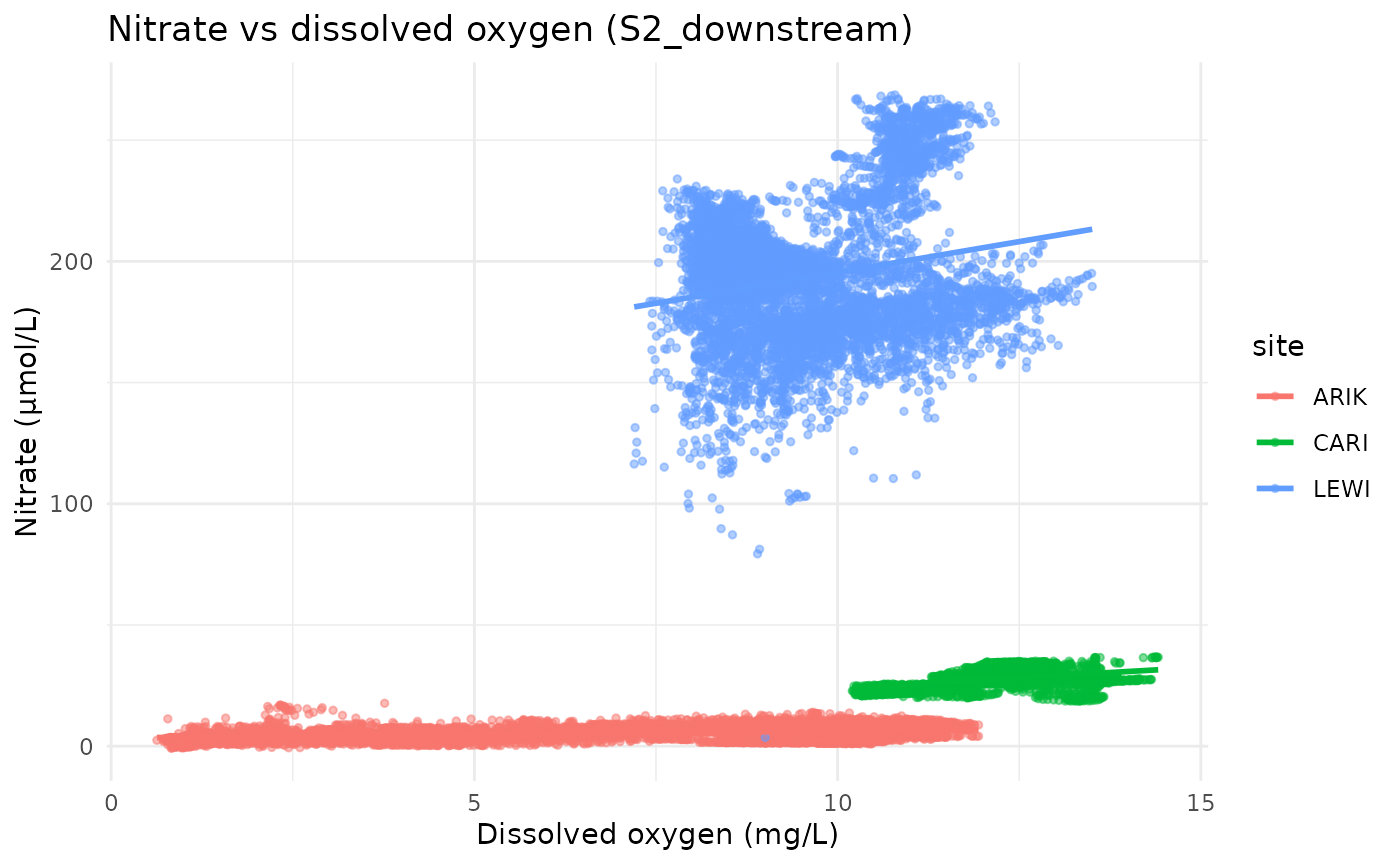
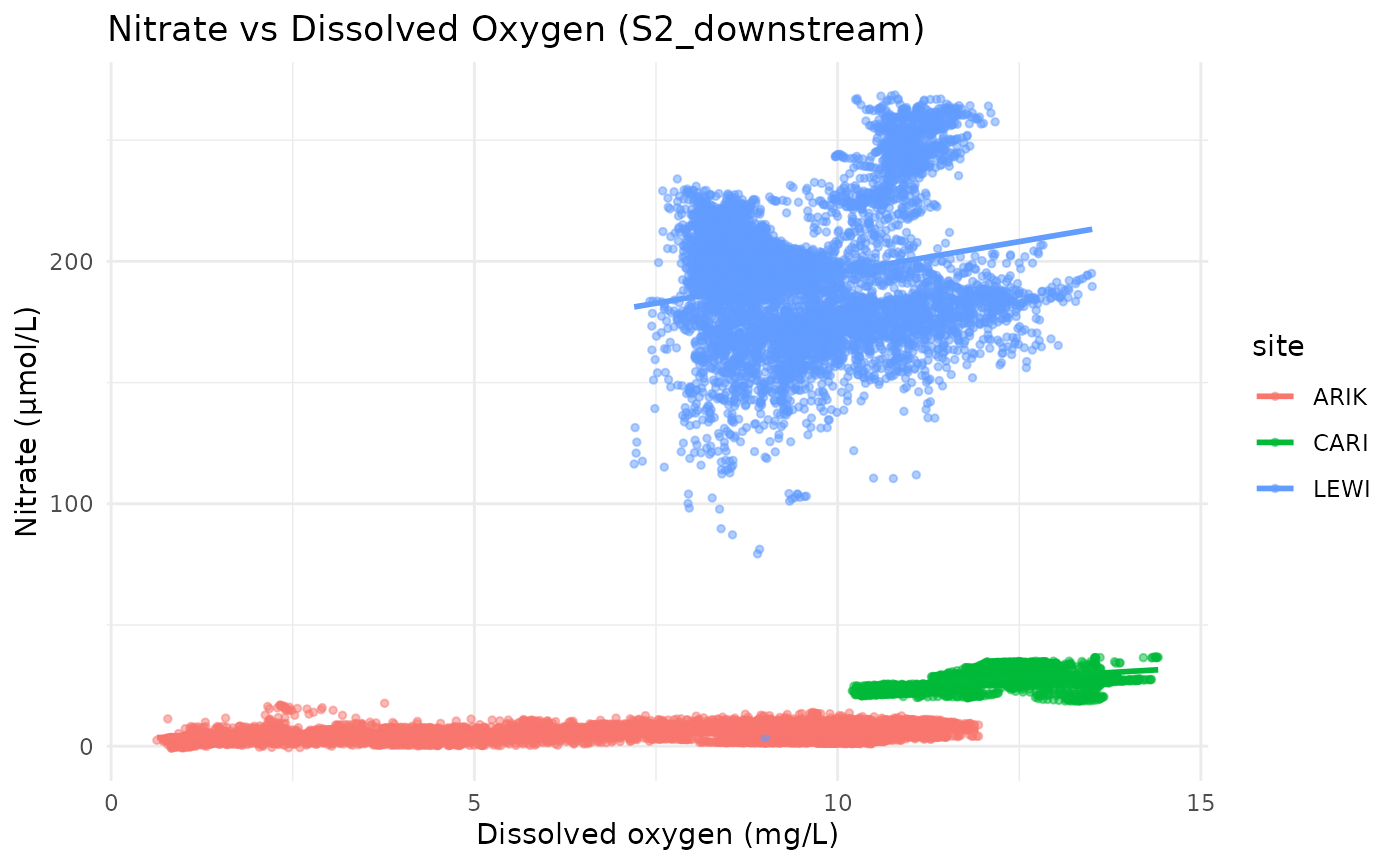
Deploying to gh-pages from @ ETC5523-2025/assignment-4-packages-and-shiny-apps-NutchanokS@b1dde2523cbc50e1ca50ef4f403d88e5b805554c 🚀

Changed region(s): [[0.215, 0.0, 0.6757, 0.0624]]

diff --git a/articles/analysis.html b/articles/analysis.html
@@ -5,12 +5,12 @@
 <meta charset="utf-8">
 <meta http-equiv="X-UA-Compatible" content="IE=edge">
 <meta name="viewport" content="width=device-width, initial-scale=1, shrink-to-fit=no">
-<title>analysis • assign4nspack</title>
+<title>Analysis and Interactive Exploration of NEON Freshwater Data • assign4nspack</title>
 <script src="../deps/jquery-3.6.0/jquery-3.6.0.min.js"></script><meta name="viewport" content="width=device-width, initial-scale=1, shrink-to-fit=no">
 <link href="../deps/bootstrap-5.3.1/bootstrap.min.css" rel="stylesheet">
 <script src="../deps/bootstrap-5.3.1/bootstrap.bundle.min.js"></script><link href="../deps/font-awesome-6.5.2/css/all.min.css" rel="stylesheet">
 <link href="../deps/font-awesome-6.5.2/css/v4-shims.min.css" rel="stylesheet">
-<script src="../deps/headroom-0.11.0/headroom.min.js"></script><script src="../deps/headroom-0.11.0/jQuery.headroom.min.js"></script><script src="../deps/bootstrap-toc-1.0.1/bootstrap-toc.min.js"></script><script src="../deps/clipboard.js-2.0.11/clipboard.min.js"></script><script src="../deps/search-1.0.0/autocomplete.jquery.min.js"></script><script src="../deps/search-1.0.0/fuse.min.js"></script><script src="../deps/search-1.0.0/mark.min.js"></script><!-- pkgdown --><script src="../pkgdown.js"></script><meta property="og:title" content="analysis">
+<script src="../deps/headroom-0.11.0/headroom.min.js"></script><script src="../deps/headroom-0.11.0/jQuery.headroom.min.js"></script><script src="../deps/bootstrap-toc-1.0.1/bootstrap-toc.min.js"></script><script src="../deps/clipboard.js-2.0.11/clipboard.min.js"></script><script src="../deps/search-1.0.0/autocomplete.jquery.min.js"></script><script src="../deps/search-1.0.0/fuse.min.js"></script><script src="../deps/search-1.0.0/mark.min.js"></script><!-- pkgdown --><script src="../pkgdown.js"></script><meta property="og:title" content="Analysis and Interactive Exploration of NEON Freshwater Data">
 </head>
 <body>
     <a href="#main" class="visually-hidden-focusable">Skip to contents</a>
@@ -33,7 +33,7 @@
 <li class="active nav-item dropdown">
   <button class="nav-link dropdown-toggle" type="button" id="dropdown-articles" data-bs-toggle="dropdown" aria-expanded="false" aria-haspopup="true">Articles</button>
   <ul class="dropdown-menu" aria-labelledby="dropdown-articles">
-<li><a class="dropdown-item" href="../articles/analysis.html">analysis</a></li>
+<li><a class="dropdown-item" href="../articles/analysis.html">Analysis and Interactive Exploration of NEON Freshwater Data</a></li>
   </ul>
 </li>
       </ul>
@@ -55,7 +55,7 @@
 <div class="row">
   <main id="main" class="col-md-9"><div class="page-header">
 
-      <h1>analysis</h1>
+      <h1>Analysis and Interactive Exploration of NEON Freshwater Data</h1>
             
       
       <small class="dont-index">Source: <a href="https://github.com/ETC5523-2025/assignment-4-packages-and-shiny-apps-NutchanokS/blob/main/vignettes/analysis.Rmd" class="external-link"><code>vignettes/analysis.Rmd</code></a></small>
@@ -67,23 +67,25 @@
 <div class="section level2">
 <h2 id="overview">Overview<a class="anchor" aria-label="anchor" href="#overview"></a>
 </h2>
-<p>This vignette documents how the <strong>assign4nspack</strong>
-datasets were curated from NEON sensor products and shows quick analyses
-that mirror the questions explored in the Shiny app.</p>
+<p>This vignette demonstrates how <strong>assign4nspack</strong> curates
+and visualises high-frequency freshwater sensor data from the
+<strong>National Ecological Observatory Network (NEON)</strong>. It
+summarises dataset preparation, coverage checks, and basic relationships
+that the package’s interactive Shiny app explores in more detail.</p>
 <p><strong>Goals</strong></p>
 <ul>
-<li>Describe the data sources and preparation (time window, QC, hourly
-aggregation).</li>
-<li>Provide light EDA to understand coverage by site/sensor.</li>
-<li>Show a compact example of the nitrate–water quality
-relationship.</li>
-<li>Point readers to the interactive app for deeper exploration.</li>
+<li>Describe data sources, time window, and quality-control (QC)
+procedures.</li>
+<li>Summarise site-specific coverage by sensor.</li>
+<li>Illustrate an example nitrate–water-quality relationship.</li>
+<li>Explain the Shiny dashboard tabs for interactive analysis.</li>
 </ul>
 </div>
 <div class="section level2">
 <h2 id="data-sources">Data sources<a class="anchor" aria-label="anchor" href="#data-sources"></a>
 </h2>
-<p>We derive hourly datasets from publicly available NEON products:</p>
+<p>Hourly datasets were derived from publicly available NEON
+products:</p>
 <ul>
 <li>
 <strong>DP1.20288.001</strong> — <em>Aquatic Instrumentation: Water
@@ -95,26 +97,73 @@ variables: conductivity (<code>cond_uScm</code>), dissolved oxygen
 (NSW)</em><br>
 variable: nitrate (<code>nitrate_umolL</code>)</li>
 </ul>
-<p>Data are used here for educational purposes.</p>
+<p>These data are used solely for educational purposes in ETC5523 –
+Communicating with Data.</p>
 </div>
 <div class="section level2">
-<h2 id="timeframe-qc-and-joins-summary">Timeframe, QC, and joins (summary)<a class="anchor" aria-label="anchor" href="#timeframe-qc-and-joins-summary"></a>
+<h2 id="neon-stream-sites-in-this-package">NEON stream sites in this package<a class="anchor" aria-label="anchor" href="#neon-stream-sites-in-this-package"></a>
+</h2>
+<table class="table">
+<colgroup>
+<col width="24%">
+<col width="24%">
+<col width="22%">
+<col width="28%">
+</colgroup>
+<thead><tr class="header">
+<th>Site code</th>
+<th>Full name</th>
+<th>Location (USA)</th>
+<th>Description</th>
+</tr></thead>
+<tbody>
+<tr class="odd">
+<td><strong>ARIK</strong></td>
+<td>Arikaree River</td>
+<td>Colorado</td>
+<td>Semi-arid prairie and cropland catchment with strong diel
+conductivity cycles.</td>
+</tr>
+<tr class="even">
+<td><strong>CARI</strong></td>
+<td>Caribou Creek</td>
+<td>Alaska</td>
+<td>Sub-arctic, minimally disturbed watershed with low conductivity and
+nitrate.</td>
+</tr>
+<tr class="odd">
+<td><strong>LEWI</strong></td>
+<td>Lewis Run</td>
+<td>Pennsylvania</td>
+<td>Temperate urban–agricultural catchment showing high nitrate and
+conductivity from runoff.</td>
+</tr>
+</tbody>
+</table>
+</div>
+<div class="section level2">
+<h2 id="data-processing-summary">Data processing summary<a class="anchor" aria-label="anchor" href="#data-processing-summary"></a>
 </h2>
 <ul>
-<li>Time window: <strong>2018-01-01 to 2019-12-31</strong>.</li>
-<li>Quality filtering: keep measurements with NEON quality flag
-<strong>QF == 0</strong> when available.</li>
-<li>Aggregation: raw 15-min values → <strong>hourly means</strong> using
-<code>lubridate::floor_date</code>.</li>
-<li>Join keys: <code>site</code>, <code>sensor</code>
+<li>
+<strong>Period:</strong> 1 January 2018 – 31 December 2019</li>
+<li>
+<strong>QC:</strong> retain only records with NEON quality flag
+<code>QF == 0</code>
+</li>
+<li>
+<strong>Aggregation:</strong> 15-minute observations averaged to
+hourly means (<code>lubridate::floor_date</code>)</li>
+<li>
+<strong>Join keys:</strong> <code>site</code>, <code>sensor</code>
 (<code>S1_upstream</code>, <code>S2_downstream</code>),
-<code>date_time</code> (UTC).</li>
+<code>date_time</code> (UTC)</li>
 </ul>
-<p>The full preparation steps are implemented in the package’s
-<code>data-raw/</code> scripts.</p>
+<p>Data preparation scripts are available in the package’s
+<code>data-raw/</code> folder.</p>
 </div>
 <div class="section level2">
-<h2 id="quick-data-check">Quick data check<a class="anchor" aria-label="anchor" href="#quick-data-check"></a>
+<h2 id="quick-structure-check">Quick structure check<a class="anchor" aria-label="anchor" href="#quick-structure-check"></a>
 </h2>
 <div class="sourceCode" id="cb1"><pre class="downlit sourceCode r">
 <code class="sourceCode R"><span><span class="kw"><a href="https://rdrr.io/r/base/library.html" class="external-link">library</a></span><span class="op">(</span><span class="va"><a href="https://dplyr.tidyverse.org" class="external-link">dplyr</a></span><span class="op">)</span></span>
@@ -167,7 +216,7 @@ variable: nitrate (<code>nitrate_umolL</code>)</li>
 <p><img src="analysis_files/figure-html/coverage%20plot-1.png" width="700"></p>
 </div>
 <div class="section level2">
-<h2 id="time-range-check">Time range check<a class="anchor" aria-label="anchor" href="#time-range-check"></a>
+<h2 id="time-range-per-sitesensor">Time range per site/sensor<a class="anchor" aria-label="anchor" href="#time-range-per-sitesensor"></a>
 </h2>
 <div class="sourceCode" id="cb6"><pre class="downlit sourceCode r">
 <code class="sourceCode R"><span><span class="va">wq_nitrate</span> <span class="op">|&gt;</span></span>
@@ -186,11 +235,14 @@ variable: nitrate (<code>nitrate_umolL</code>)</li>
 <span><span class="co">## <span style="color: #BCBCBC;">4</span> CARI  S2_downstream 2018-06-12 <span style="color: #949494;">19:00:00</span> 2019-09-24 <span style="color: #949494;">23:00:00</span></span></span>
 <span><span class="co">## <span style="color: #BCBCBC;">5</span> LEWI  S1_upstream   2018-01-03 <span style="color: #949494;">21:00:00</span> 2019-12-31 <span style="color: #949494;">23:00:00</span></span></span>
 <span><span class="co">## <span style="color: #BCBCBC;">6</span> LEWI  S2_downstream 2018-01-01 <span style="color: #949494;">00:00:00</span> 2019-12-31 <span style="color: #949494;">23:00:00</span></span></span></code></pre>
-<p><strong>Nitrate–water quality relationship</strong></p>
-<p>We illustrate one relationship that the app explores interactively:
-<strong>nitrate vs dissolved oxygen.</strong></p>
-<p>Downstream sensors (<code>S2_downstream</code>) usually have the
-richest nitrate coverage.</p>
+</div>
+<div class="section level2">
+<h2 id="example-relationship-nitrate-vs--dissolved-oxygen">Example relationship: Nitrate vs. Dissolved Oxygen**<a class="anchor" aria-label="anchor" href="#example-relationship-nitrate-vs--dissolved-oxygen"></a>
+</h2>
+<p>Downstream sensors (<code>S2_downstream</code>) provide the richest
+nitrate coverage.</p>
+<p>The plot below shows a site-coloured scatter of nitrate against
+dissolved oxygen with linear fits.</p>
 <div class="sourceCode" id="cb8"><pre class="downlit sourceCode r">
 <code class="sourceCode R"><span><span class="va">df_rel</span> <span class="op">&lt;-</span> <span class="va">wq_nitrate</span> <span class="op">|&gt;</span></span>
 <span><span class="fu"><a href="https://dplyr.tidyverse.org/reference/filter.html" class="external-link">filter</a></span><span class="op">(</span><span class="va">sensor</span> <span class="op">==</span> <span class="st">"S2_downstream"</span><span class="op">)</span> <span class="op">|&gt;</span></span>
@@ -200,31 +252,75 @@ richest nitrate coverage.</p>
 <span><span class="fu"><a href="https://ggplot2.tidyverse.org/reference/ggplot.html" class="external-link">ggplot</a></span><span class="op">(</span><span class="va">df_rel</span>, <span class="fu"><a href="https://ggplot2.tidyverse.org/reference/aes.html" class="external-link">aes</a></span><span class="op">(</span>x <span class="op">=</span> <span class="va">do_mgL</span>, y <span class="op">=</span> <span class="va">nitrate_umolL</span>, colour <span class="op">=</span> <span class="va">site</span><span class="op">)</span><span class="op">)</span> <span class="op">+</span></span>
 <span><span class="fu"><a href="https://ggplot2.tidyverse.org/reference/geom_point.html" class="external-link">geom_point</a></span><span class="op">(</span>alpha <span class="op">=</span> <span class="fl">0.5</span>, size <span class="op">=</span> <span class="fl">1</span><span class="op">)</span> <span class="op">+</span></span>
 <span><span class="fu"><a href="https://ggplot2.tidyverse.org/reference/geom_smooth.html" class="external-link">geom_smooth</a></span><span class="op">(</span>method <span class="op">=</span> <span class="st">"lm"</span>, se <span class="op">=</span> <span class="cn">FALSE</span><span class="op">)</span> <span class="op">+</span></span>
-<span><span class="fu"><a href="https://ggplot2.tidyverse.org/reference/labs.html" class="external-link">labs</a></span><span class="op">(</span>x <span class="op">=</span> <span class="st">"Dissolved oxygen (mg/L)"</span>, y <span class="op">=</span> <span class="st">"Nitrate (\u00B5mol/L)"</span>,</span>
-<span>title <span class="op">=</span> <span class="st">"Nitrate vs dissolved oxygen (S2_downstream)"</span><span class="op">)</span> <span class="op">+</span></span>
+<span><span class="fu"><a href="https://ggplot2.tidyverse.org/reference/labs.html" class="external-link">labs</a></span><span class="op">(</span></span>
+<span>x <span class="op">=</span> <span class="st">"Dissolved oxygen (mg/L)"</span>,</span>
+<span>y <span class="op">=</span> <span class="st">"Nitrate (\u00B5mol/L)"</span>,</span>
+<span>title <span class="op">=</span> <span class="st">"Nitrate vs Dissolved Oxygen (S2_downstream)"</span></span>
+<span><span class="op">)</span> <span class="op">+</span></span>
 <span><span class="fu"><a href="https://ggplot2.tidyverse.org/reference/ggtheme.html" class="external-link">theme_minimal</a></span><span class="op">(</span><span class="op">)</span></span></code></pre></div>
 <p><img src="analysis_files/figure-html/relationship%20plot-1.png" width="700"></p>
-<p>Correlation (pooled across sites at <code>S2_downstream</code>):</p>
+<p>Correlation across all sites:</p>
 <div class="sourceCode" id="cb9"><pre class="downlit sourceCode r">
 <code class="sourceCode R"><span><span class="va">ct</span> <span class="op">&lt;-</span> <span class="fu"><a href="https://rdrr.io/r/base/warning.html" class="external-link">suppressWarnings</a></span><span class="op">(</span><span class="fu"><a href="https://rdrr.io/r/stats/cor.test.html" class="external-link">cor.test</a></span><span class="op">(</span><span class="va">df_rel</span><span class="op">$</span><span class="va">do_mgL</span>, <span class="va">df_rel</span><span class="op">$</span><span class="va">nitrate_umolL</span><span class="op">)</span><span class="op">)</span></span>
-<span><span class="fu"><a href="https://rdrr.io/r/base/data.frame.html" class="external-link">data.frame</a></span><span class="op">(</span></span>
-<span>r <span class="op">=</span> <span class="fu"><a href="https://rdrr.io/r/base/unname.html" class="external-link">unname</a></span><span class="op">(</span><span class="va">ct</span><span class="op">$</span><span class="va">estimate</span><span class="op">)</span>,</span>
-<span>p_value <span class="op">=</span> <span class="va">ct</span><span class="op">$</span><span class="va">p.value</span></span>
-<span><span class="op">)</span></span></code></pre></div>
+<span><span class="fu"><a href="https://rdrr.io/r/base/data.frame.html" class="external-link">data.frame</a></span><span class="op">(</span>r <span class="op">=</span> <span class="fu"><a href="https://rdrr.io/r/base/unname.html" class="external-link">unname</a></span><span class="op">(</span><span class="va">ct</span><span class="op">$</span><span class="va">estimate</span><span class="op">)</span>, p_value <span class="op">=</span> <span class="va">ct</span><span class="op">$</span><span class="va">p.value</span><span class="op">)</span></span></code></pre></div>
 <pre><code><span><span class="co">##           r       p_value</span></span>
 <span><span class="co">## 1 0.2542486 7.020114e-265</span></span></code></pre>
-<p><em>(Interpretation example: a small positive/negative r indicates a
-weak linear association; see the app for site-specific views and LOESS
-fits.)</em></p>
+<p><em>(Interpretation: small |r| values indicate weak linear
+association; nonlinear effects can be explored via LOESS in the
+app.)</em></p>
 </div>
 <div class="section level2">
-<h2 id="launch-the-interactive-app">Launch the interactive app<a class="anchor" aria-label="anchor" href="#launch-the-interactive-app"></a>
+<h2 id="shiny-dashboard-tabs-at-a-glance">Shiny dashboard: tabs at a glance<a class="anchor" aria-label="anchor" href="#shiny-dashboard-tabs-at-a-glance"></a>
 </h2>
-<p>For guided exploration (time trends, site comparisons, faceting,
-trend fits), launch:</p>
+<p>The package provides an interactive NEON Freshwater Quality
+Explorer.</p>
+<p>Launch it with:</p>
 <div class="sourceCode" id="cb11"><pre class="downlit sourceCode r">
 <code class="sourceCode R"><span><span class="co"># Launch the interactive dashboard</span></span>
 <span><span class="fu">assign4nspack</span><span class="fu">::</span><span class="fu"><a href="../reference/run_app.html">run_app</a></span><span class="op">(</span><span class="op">)</span></span></code></pre></div>
+<table class="table">
+<colgroup>
+<col width="43%">
+<col width="56%">
+</colgroup>
+<thead><tr class="header">
+<th>Tab</th>
+<th>Purpose</th>
+</tr></thead>
+<tbody>
+<tr class="odd">
+<td><strong>About the Data</strong></td>
+<td>Describes NEON data products, sensor layout, and key variables.</td>
+</tr>
+<tr class="even">
+<td><strong>Time Trend</strong></td>
+<td>Displays temporal changes in conductivity, oxygen, turbidity, or
+nitrate, highlighting diurnal and seasonal cycles.</td>
+</tr>
+<tr class="odd">
+<td><strong>Boxplot by Site</strong></td>
+<td>Compares variable distributions across sites and sensors.</td>
+</tr>
+<tr class="even">
+<td><strong>Nitrate Relationship</strong></td>
+<td>Explores nitrate vs. water-quality variables with optional Linear
+(orange) and LOESS (black dashed) fits; can facet by site and hide
+extremes.</td>
+</tr>
+</tbody>
+</table>
+</div>
+<div class="section level2">
+<h2 id="data-citation">Data citation<a class="anchor" aria-label="anchor" href="#data-citation"></a>
+</h2>
+<p>NEON (National Ecological Observatory Network). Water quality
+(DP1.20288.001), RELEASE-2025. <a href="https://doi.org/10.48443/03mj-t174" class="external-link uri">https://doi.org/10.48443/03mj-t174</a>. Dataset accessed
+from <a href="https://data.neonscience.org/data-products/DP1.20288.001/RELEASE-2025" class="external-link uri">https://data.neonscience.org/data-products/DP1.20288.001/RELEASE-2025</a>
+on October 28, 2025.</p>
+<p>NEON (National Ecological Observatory Network). Nitrate in surface
+water (DP1.20033.001), RELEASE-2025. <a href="https://doi.org/10.48443/wwa3-p420" class="external-link uri">https://doi.org/10.48443/wwa3-p420</a>. Dataset accessed
+from <a href="https://data.neonscience.org/data-products/DP1.20033.001/RELEASE-2025" class="external-link uri">https://data.neonscience.org/data-products/DP1.20033.001/RELEASE-2025</a>
+on October 28, 2025.</p>
 </div>
 <div class="section level2">
 <h2 id="reproducibility">Reproducibility<a class="anchor" aria-label="anchor" href="#reproducibility"></a>

diff --git a/articles/index.html b/articles/index.html
@@ -18,7 +18,7 @@
       <ul class="navbar-nav me-auto"><li class="nav-item"><a class="nav-link" href="../reference/index.html">Reference</a></li>
 <li class="nav-item dropdown">
   <button class="nav-link dropdown-toggle" type="button" id="dropdown-articles" data-bs-toggle="dropdown" aria-expanded="false" aria-haspopup="true">Articles</button>
-  <ul class="dropdown-menu" aria-labelledby="dropdown-articles"><li><a class="dropdown-item" href="../articles/analysis.html">analysis</a></li>
+  <ul class="dropdown-menu" aria-labelledby="dropdown-articles"><li><a class="dropdown-item" href="../articles/analysis.html">Analysis and Interactive Exploration of NEON Freshwater Data</a></li>
   </ul></li>
       </ul><ul class="navbar-nav"><li class="nav-item"><form class="form-inline" role="search">
  <input class="form-control" type="search" name="search-input" id="search-input" autocomplete="off" aria-label="Search site" placeholder="Search for" data-search-index="../search.json"></form></li>
@@ -38,7 +38,7 @@
       <h3>All vignettes</h3>
       <div class="section-desc"></div>
 
-      <dl><dt><a href="analysis.html">analysis</a></dt>
+      <dl><dt><a href="analysis.html">Analysis and Interactive Exploration of NEON Freshwater Data</a></dt>
         <dd>
       </dd></dl></div>
   </main></div>

diff --git a/reference/wq_nitrate.html b/reference/wq_nitrate.html
@@ -20,7 +20,7 @@ Nitrate data are available primarily for downstream sensors; upstream sensors ma
       <ul class="navbar-nav me-auto"><li class="active nav-item"><a class="nav-link" href="../reference/index.html">Reference</a></li>
 <li class="nav-item dropdown">
   <button class="nav-link dropdown-toggle" type="button" id="dropdown-articles" data-bs-toggle="dropdown" aria-expanded="false" aria-haspopup="true">Articles</button>
-  <ul class="dropdown-menu" aria-labelledby="dropdown-articles"><li><a class="dropdown-item" href="../articles/analysis.html">analysis</a></li>
+  <ul class="dropdown-menu" aria-labelledby="dropdown-articles"><li><a class="dropdown-item" href="../articles/analysis.html">Analysis and Interactive Exploration of NEON Freshwater Data</a></li>
   </ul></li>
       </ul><ul class="navbar-nav"><li class="nav-item"><form class="form-inline" role="search">
  <input class="form-control" type="search" name="search-input" id="search-input" autocomplete="off" aria-label="Search site" placeholder="Search for" data-search-index="../search.json"></form></li>

diff --git a/reference/run_app.html b/reference/run_app.html
@@ -20,7 +20,7 @@ It uses the packaged datasets (no reading from disk)."></head><body>
       <ul class="navbar-nav me-auto"><li class="active nav-item"><a class="nav-link" href="../reference/index.html">Reference</a></li>
 <li class="nav-item dropdown">
   <button class="nav-link dropdown-toggle" type="button" id="dropdown-articles" data-bs-toggle="dropdown" aria-expanded="false" aria-haspopup="true">Articles</button>
-  <ul class="dropdown-menu" aria-labelledby="dropdown-articles"><li><a class="dropdown-item" href="../articles/analysis.html">analysis</a></li>
+  <ul class="dropdown-menu" aria-labelledby="dropdown-articles"><li><a class="dropdown-item" href="../articles/analysis.html">Analysis and Interactive Exploration of NEON Freshwater Data</a></li>
   </ul></li>
       </ul><ul class="navbar-nav"><li class="nav-item"><form class="form-inline" role="search">
  <input class="form-control" type="search" name="search-input" id="search-input" autocomplete="off" aria-label="Search site" placeholder="Search for" data-search-index="../search.json"></form></li>

diff --git a/reference/index.html b/reference/index.html
@@ -18,7 +18,7 @@
       <ul class="navbar-nav me-auto"><li class="active nav-item"><a class="nav-link" href="../reference/index.html">Reference</a></li>
 <li class="nav-item dropdown">
   <button class="nav-link dropdown-toggle" type="button" id="dropdown-articles" data-bs-toggle="dropdown" aria-expanded="false" aria-haspopup="true">Articles</button>
-  <ul class="dropdown-menu" aria-labelledby="dropdown-articles"><li><a class="dropdown-item" href="../articles/analysis.html">analysis</a></li>
+  <ul class="dropdown-menu" aria-labelledby="dropdown-articles"><li><a class="dropdown-item" href="../articles/analysis.html">Analysis and Interactive Exploration of NEON Freshwater Data</a></li>
   </ul></li>
       </ul><ul class="navbar-nav"><li class="nav-item"><form class="form-inline" role="search">
  <input class="form-control" type="search" name="search-input" id="search-input" autocomplete="off" aria-label="Search site" placeholder="Search for" data-search-index="../search.json"></form></li>

diff --git a/reference/nitrate_hourly.html b/reference/nitrate_hourly.html
@@ -18,7 +18,7 @@
       <ul class="navbar-nav me-auto"><li class="active nav-item"><a class="nav-link" href="../reference/index.html">Reference</a></li>
 <li class="nav-item dropdown">
   <button class="nav-link dropdown-toggle" type="button" id="dropdown-articles" data-bs-toggle="dropdown" aria-expanded="false" aria-haspopup="true">Articles</button>
-  <ul class="dropdown-menu" aria-labelledby="dropdown-articles"><li><a class="dropdown-item" href="../articles/analysis.html">analysis</a></li>
+  <ul class="dropdown-menu" aria-labelledby="dropdown-articles"><li><a class="dropdown-item" href="../articles/analysis.html">Analysis and Interactive Exploration of NEON Freshwater Data</a></li>
   </ul></li>
       </ul><ul class="navbar-nav"><li class="nav-item"><form class="form-inline" role="search">
  <input class="form-control" type="search" name="search-input" id="search-input" autocomplete="off" aria-label="Search site" placeholder="Search for" data-search-index="../search.json"></form></li>

diff --git a/reference/wq_hourly.html b/reference/wq_hourly.html
@@ -18,7 +18,7 @@
       <ul class="navbar-nav me-auto"><li class="active nav-item"><a class="nav-link" href="../reference/index.html">Reference</a></li>
 <li class="nav-item dropdown">
   <button class="nav-link dropdown-toggle" type="button" id="dropdown-articles" data-bs-toggle="dropdown" aria-expanded="false" aria-haspopup="true">Articles</button>
-  <ul class="dropdown-menu" aria-labelledby="dropdown-articles"><li><a class="dropdown-item" href="../articles/analysis.html">analysis</a></li>
+  <ul class="dropdown-menu" aria-labelledby="dropdown-articles"><li><a class="dropdown-item" href="../articles/analysis.html">Analysis and Interactive Exploration of NEON Freshwater Data</a></li>
   </ul></li>
       </ul><ul class="navbar-nav"><li class="nav-item"><form class="form-inline" role="search">
  <input class="form-control" type="search" name="search-input" id="search-input" autocomplete="off" aria-label="Search site" placeholder="Search for" data-search-index="../search.json"></form></li>

diff --git a/LICENSE-text.html b/LICENSE-text.html
@@ -18,7 +18,7 @@
       <ul class="navbar-nav me-auto"><li class="nav-item"><a class="nav-link" href="reference/index.html">Reference</a></li>
 <li class="nav-item dropdown">
   <button class="nav-link dropdown-toggle" type="button" id="dropdown-articles" data-bs-toggle="dropdown" aria-expanded="false" aria-haspopup="true">Articles</button>
-  <ul class="dropdown-menu" aria-labelledby="dropdown-articles"><li><a class="dropdown-item" href="articles/analysis.html">analysis</a></li>
+  <ul class="dropdown-menu" aria-labelledby="dropdown-articles"><li><a class="dropdown-item" href="articles/analysis.html">Analysis and Interactive Exploration of NEON Freshwater Data</a></li>
   </ul></li>
       </ul><ul class="navbar-nav"><li class="nav-item"><form class="form-inline" role="search">
  <input class="form-control" type="search" name="search-input" id="search-input" autocomplete="off" aria-label="Search site" placeholder="Search for" data-search-index="search.json"></form></li>

diff --git a/LICENSE.html b/LICENSE.html
@@ -18,7 +18,7 @@
       <ul class="navbar-nav me-auto"><li class="nav-item"><a class="nav-link" href="reference/index.html">Reference</a></li>
 <li class="nav-item dropdown">
   <button class="nav-link dropdown-toggle" type="button" id="dropdown-articles" data-bs-toggle="dropdown" aria-expanded="false" aria-haspopup="true">Articles</button>
-  <ul class="dropdown-menu" aria-labelledby="dropdown-articles"><li><a class="dropdown-item" href="articles/analysis.html">analysis</a></li>
+  <ul class="dropdown-menu" aria-labelledby="dropdown-articles"><li><a class="dropdown-item" href="articles/analysis.html">Analysis and Interactive Exploration of NEON Freshwater Data</a></li>
   </ul></li>
       </ul><ul class="navbar-nav"><li class="nav-item"><form class="form-inline" role="search">
  <input class="form-control" type="search" name="search-input" id="search-input" autocomplete="off" aria-label="Search site" placeholder="Search for" data-search-index="search.json"></form></li>

diff --git a/authors.html b/authors.html
@@ -18,7 +18,7 @@
       <ul class="navbar-nav me-auto"><li class="nav-item"><a class="nav-link" href="reference/index.html">Reference</a></li>
 <li class="nav-item dropdown">
   <button class="nav-link dropdown-toggle" type="button" id="dropdown-articles" data-bs-toggle="dropdown" aria-expanded="false" aria-haspopup="true">Articles</button>
-  <ul class="dropdown-menu" aria-labelledby="dropdown-articles"><li><a class="dropdown-item" href="articles/analysis.html">analysis</a></li>
+  <ul class="dropdown-menu" aria-labelledby="dropdown-articles"><li><a class="dropdown-item" href="articles/analysis.html">Analysis and Interactive Exploration of NEON Freshwater Data</a></li>
   </ul></li>
       </ul><ul class="navbar-nav"><li class="nav-item"><form class="form-inline" role="search">
  <input class="form-control" type="search" name="search-input" id="search-input" autocomplete="off" aria-label="Search site" placeholder="Search for" data-search-index="search.json"></form></li>

diff --git a/404.html b/404.html
@@ -33,7 +33,7 @@
 <li class="nav-item dropdown">
   <button class="nav-link dropdown-toggle" type="button" id="dropdown-articles" data-bs-toggle="dropdown" aria-expanded="false" aria-haspopup="true">Articles</button>
   <ul class="dropdown-menu" aria-labelledby="dropdown-articles">
-<li><a class="dropdown-item" href="https://etc5523-2025.github.io/assignment-4-packages-and-shiny-apps-NutchanokS/articles/analysis.html">analysis</a></li>
+<li><a class="dropdown-item" href="https://etc5523-2025.github.io/assignment-4-packages-and-shiny-apps-NutchanokS/articles/analysis.html">Analysis and Interactive Exploration of NEON Freshwater Data</a></li>
   </ul>
 </li>
       </ul>

diff --git a/index.html b/index.html
@@ -35,7 +35,7 @@
 <li class="nav-item dropdown">
   <button class="nav-link dropdown-toggle" type="button" id="dropdown-articles" data-bs-toggle="dropdown" aria-expanded="false" aria-haspopup="true">Articles</button>
   <ul class="dropdown-menu" aria-labelledby="dropdown-articles">
-<li><a class="dropdown-item" href="articles/analysis.html">analysis</a></li>
+<li><a class="dropdown-item" href="articles/analysis.html">Analysis and Interactive Exploration of NEON Freshwater Data</a></li>
   </ul>
 </li>
       </ul>
